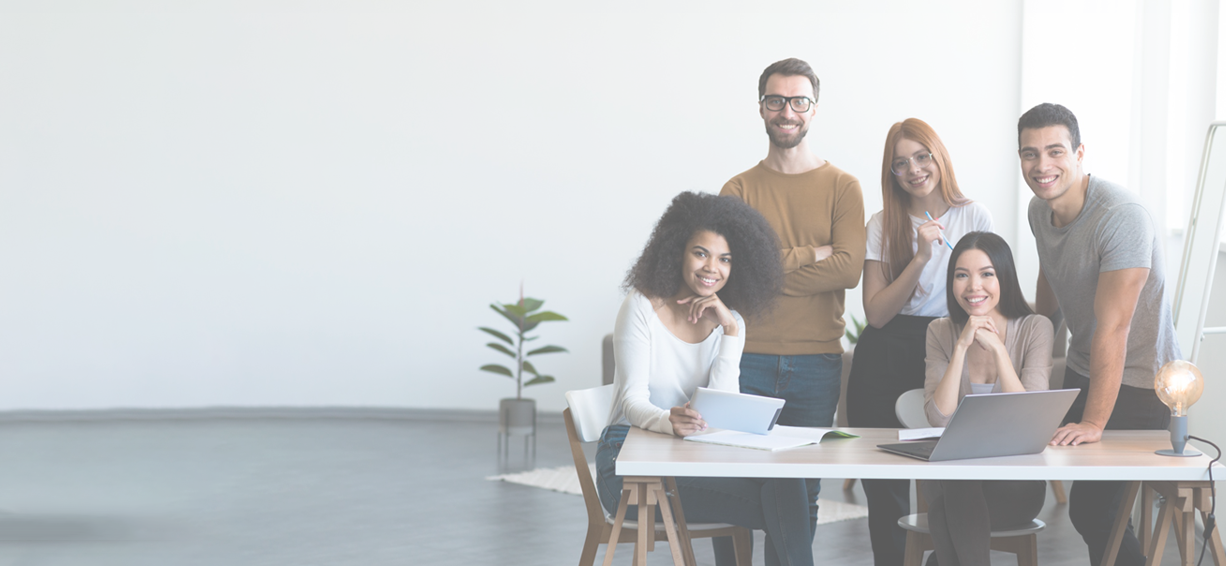
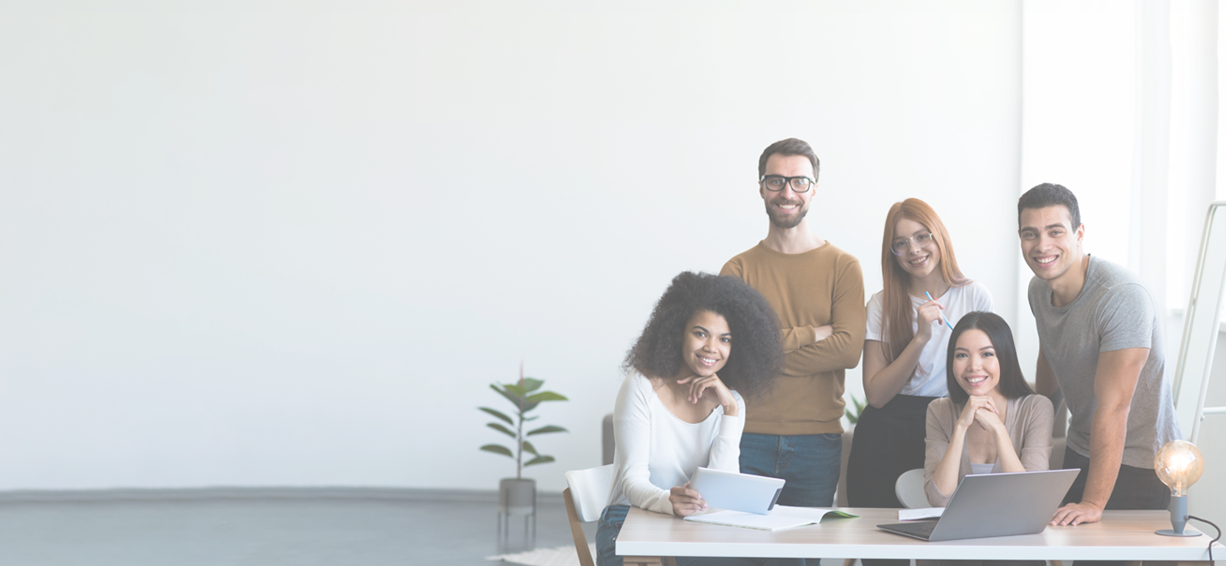
update

diff --git a/Revenue-Management.html b/Revenue-Management.html
@@ -358,7 +358,7 @@
             </div>
             <div class="col-xxl-6 col-xl-6 col-lg-6">
               <div class="img">
-                <img class="border-radius-20" src="https://img.freepik.com/free-photo/handsome-latin-businessman-examining-sales-data-while-working-home_662251-890.jpg" alt="Image">
+                <img class="border-radius-20" src="images/Revenue-Management-image2.png" alt="Image">
               </div>
             </div>
             <!-- <div class="col-xxl-12">
